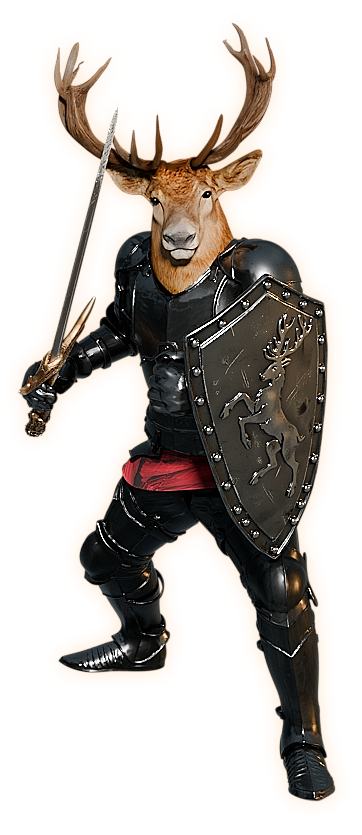
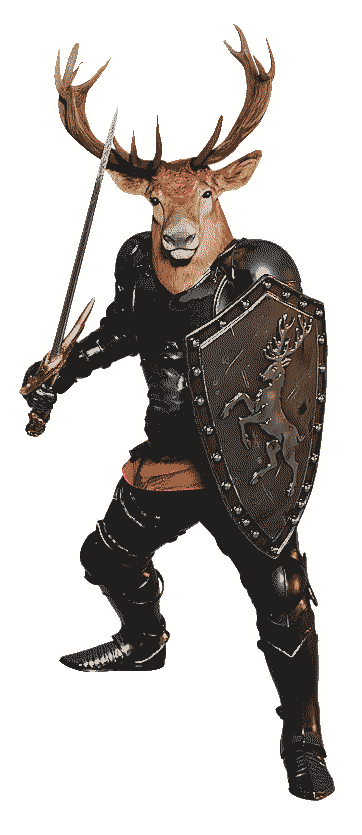
added gameplay screenshots, updated descriptions and expanded system sections

Changed region(s): [[0.0608, 0.0311, 0.942, 0.9653], [0.7901, 0.7784, 0.8204, 0.8096], [0.2735, 0.0623, 0.3039, 0.0934]]

diff --git a/index.html b/index.html
@@ -4,11 +4,11 @@
   <meta charset="UTF-8">
   <meta name="viewport" content="width=device-width, initial-scale=1.0">
   <title>The Lands Without | Isometric Dark Fantasy MMORPG</title>
-  <meta name="description" content="The Lands Without is an isometric dark fantasy MMORPG. Dangerous wilds, loot worth keeping, and three paths of power. In development.">
+  <meta name="description" content="The Lands Without is an isometric dark fantasy MMORPG. Castle sieges, quest chains, deep itemization, and three paths of power. In development.">
   <link rel="icon" type="image/svg+xml" href="assets/img/favicon.svg">
-  <link rel="stylesheet" href="css/style.css?v=3">
+  <link rel="stylesheet" href="css/style.css?v=4">
   <meta property="og:title" content="The Lands Without">
-  <meta property="og:description" content="An isometric dark fantasy MMORPG. Dangerous wilds, loot worth keeping, and three paths of power.">
+  <meta property="og:description" content="An isometric dark fantasy MMORPG. Castle sieges, quest chains, deep itemization, and three paths of power.">
   <meta property="og:type" content="website">
   <meta property="og:url" content="https://thelandswithout.com/">
 </head>
@@ -22,10 +22,11 @@
     <nav class="nav-links">
       <a href="#world">The World</a>
       <a href="#paths">Paths</a>
+      <a href="#systems">Systems</a>
       <a href="#war">War</a>
       <a href="#loot">Loot</a>
       <a href="#craft">Crafting</a>
-      <a href="#shots">Screenshots</a>
+      <a href="#quests">Quests</a>
       <a class="nav-cta" href="#join">Join</a>
     </nav>
   </header>
@@ -47,13 +48,24 @@
         <div class="rivet tl"></div><div class="rivet tr"></div><div class="rivet bl"></div><div class="rivet br"></div>
         <h2 class="section-title">The World</h2>
         <div class="filigree"><span class="filigree-diamond"></span></div>
-        <p>The Lands Without is a classic isometric MMORPG of deep forests, old ruins, and open war. Your journey begins in Oakvale, a frontier where monsters hunt in packs, bosses hold their ground, and the treasure is worth the danger.</p>
-        <p>Combat is honest about its stakes. A single even fight will test you. Two enemies at once is real trouble. Three is a death sentence. Survive, and you recover in seconds, ready to push deeper.</p>
+        <p>The Lands Without is a classic isometric MMORPG of deep forests, old ruins, and open war. Your journey begins in Oakvale, a frontier where weird monsters roam, bosses hold their ground, and the treasure is worth the danger.</p>
+        <p>Combat is fast-paced from the start. A single even fight will test you. Multiple enemies can be fatal. Survive, and you recover in seconds, ready to push deeper.</p>
+        <p>Time passes whether you are ready or not. The world runs on a full day and night cycle, and Oakvale by lamplight is a different place than Oakvale at noon. Some hunts only begin at dusk.</p>
         <ul class="feature-list">
           <li><span class="feature-key">Dungeons.</span> Instanced depths beneath the open world, each with its own dangers and its own rewards.</li>
           <li><span class="feature-key">World bosses.</span> Named horrors like the White Stag and the Wendigo rule the deep woods and drop the best gear in the region.</li>
           <li><span class="feature-key">Guilds.</span> Band together, trade, duel, and take your banner to war.</li>
         </ul>
+        <div class="media-row">
+          <figure class="media-shot reveal">
+            <img src="assets/img/screenshots/gameplay_bulwark_oakvale_village_day.jpg" alt="Isometric view of Oakvale Village in daylight, with villagers gathered around a central campfire where several dirt roads meet" loading="lazy">
+            <figcaption>Midday in Oakvale Village. Roads from every corner of the region meet at the central fire.</figcaption>
+          </figure>
+          <figure class="media-shot reveal">
+            <img src="assets/img/screenshots/gameplay_strider_oakvale_village_night.jpg" alt="Oakvale Village at night, lit only by the campfire, with the quest tracker showing The Strange Road beneath the minimap" loading="lazy">
+            <figcaption>The same square at 9:14 PM. The tracked quest sits under the minimap, and the dark comes all the way up to the buildings.</figcaption>
+          </figure>
+        </div>
       </div>
     </section>
 
@@ -83,14 +95,69 @@
       </div>
     </section>
 
+    <section class="section" id="systems">
+      <div class="panel reveal">
+        <div class="rivet tl"></div><div class="rivet tr"></div><div class="rivet bl"></div><div class="rivet br"></div>
+        <h2 class="section-title">The Action RPG Core</h2>
+        <div class="filigree"><span class="filigree-diamond"></span></div>
+        <p>Strip away the open world and the war, and The Lands Without is a proper action RPG underneath. Real stats, real rolls, and tooltips that tell you the truth.</p>
+        <div class="media-split">
+          <div>
+            <h3>A Character Sheet With Depth</h3>
+            <p>Every character is built on four attributes, Strength, Dexterity, Intelligence, and Vitality, feeding a full sheet of combat stats: health and mana with their own regeneration, minimum and maximum damage, attack speed, critical chance, critical damage, armor, and block.</p>
+            <p>Resistances are deep. Fire, cold, lightning, and void sit alongside physical mitigation split into slashing, crushing, and piercing. It is impossible to mitigate everything, so choose wisely!</p>
+            <p>Skills rank up along your chosen path, and their tooltips show exact numbers.</p>
+          </div>
+          <figure class="media-shot reveal">
+            <img src="assets/img/systems/player_stats.png" alt="The character sheet of a level 1 Strider, showing attributes, combat stats, defensive stats, and skill tooltips for Swift Strikes, Flurry, Relentless Tempo, and Blade Storm" loading="lazy">
+            <figcaption>A level 1 Strider's sheet. Attributes on top, combat and defensive stats below, exact skill numbers in the tooltips.</figcaption>
+          </figure>
+        </div>
+        <div class="media-split">
+          <figure class="media-shot reveal">
+            <img src="assets/img/systems/player_inventory.png" alt="The inventory grid with a tooltip for a common Longbow showing bow, piercing, 5 to 14 damage, and plus 7 attack range" loading="lazy">
+            <figcaption>The inventory grid, with a tooltip for a common Longbow: bow, piercing, 5 to 14 damage, plus 7 attack range.</figcaption>
+          </figure>
+          <div>
+            <h3>An Inventory Worth Sorting</h3>
+            <p>The bag is a 40 slot grid. Equipment lives in eight slots: head, chest, main hand, off hand, gloves, boots, and two rings. Materials stack to 999, and scrip, the coin of the land, takes no space at all.</p>
+            <p>Every tooltip leads with the item's rarity color, its damage type, and its rolls. By the time a drop hits your bag, the server has already decided everything about it: rarity, prefix, suffix, and any proc it carries. What you see is what it is.</p>
+          </div>
+        </div>
+      </div>
+    </section>
+
     <section class="section" id="war">
       <div class="panel reveal">
         <div class="rivet tl"></div><div class="rivet tr"></div><div class="rivet bl"></div><div class="rivet br"></div>
         <h2 class="section-title">War for the Land</h2>
         <div class="filigree"><span class="filigree-diamond"></span></div>
-        <p>Beyond the wilds, players fight players for territory. Castles anchor the map: hold one and you hold the land around it, along with everything that land produces.</p>
-        <p>Sieges are pitched battles at walls and gates. Defenders fight from the ramparts with the castle itself as their great equalizer. Attackers bring numbers, siege equipment, and sappers to break a way through. When the dust settles, someone new may be flying their banner over the keep.</p>
-        <p>Between sieges, contested zones burn with ongoing war, and contracts pay you to pick a side.</p>
+        <p>Beyond the wilds, armies fight for territory. Castles anchor the map: hold one and you hold the land around it, the vendors inside it, and the dungeon beneath it.</p>
+        <p>The first war is already burning. At Thornfell Outpost in northern Oakvale, the Order of the Sunken Flame lays siege to the Cervine Host, stag-horned soldiers holding the walls against the inquisitors sent to burn them out. Banner officers from both sides recruit before every battle. Sign with Legate or Captain Veyric, and fight for pay.</p>
+        <p>Every siege has a twelve minute muster while both armies stage at their rally banners, players choose their side, followed by a twenty minute assault. Attackers have to bring down the main gate, or try for one of the vulnerable sections of wall. Then push through and hold the capture ring for sixty uncontested seconds. Defenders win by keeping them off it until the clock runs out. When the battle resolves, if the attackers stand victorious, the castle changes hands.</p>
+        <ul class="feature-list">
+          <li><span class="feature-key">Requisition.</span> Fighting earns a siege currency you spend mid-battle. Attackers field battering rams, breaching charges that blow temporary holes in the wall, and waves of hired mercenaries. Defenders answer with boiling oil, gate repair crews, and sallies out the postern doors.</li>
+          <li><span class="feature-key">Armies, not skirmishes.</span> Footmen, skirmishers, champions, and veterans reinforce both sides every twenty seconds while wall archers hold the towers. Players are the ones who tip the balance.</li>
+          <li><span class="feature-key">Score that matters.</span> Kills, enemy players, gate damage, and time on the objective all earn score, and the winning side collects double pay. Victors also claim the shrine's blessing and the only keys to the Greymarch Lodge beneath the castle.</li>
+        </ul>
+        <div class="media-row">
+          <figure class="media-shot reveal">
+            <img src="assets/img/screenshots/gameplay_bulwark_thornfell_castle_siege_day_01.jpg" alt="A Bulwark approaching the walls of Thornfell Outpost, with the siege banner showing Order of the Sunken Flame versus Cervine Host and gate health" loading="lazy">
+            <figcaption>The road to Thornfell's gate. The outpost banner at lower right tracks the matchup, the countdown, and gate health.</figcaption>
+          </figure>
+          <figure class="media-shot reveal">
+            <img src="assets/img/screenshots/gameplay_bulwark_thornfell_castle_siege_day_02.jpg" alt="Both armies clashing at the main gate of Thornfell while a Wall Archer's health bar shows at the top of the screen" loading="lazy">
+            <figcaption>The assault. Both armies collide at the gate while wall archers fire from the towers.</figcaption>
+          </figure>
+          <figure class="media-shot reveal">
+            <img src="assets/img/screenshots/gameplay_bulwark_thornfell_castle_siege_day_03.jpg" alt="A Bulwark fighting a Wall Archer on the ramparts of Thornfell during the siege" loading="lazy">
+            <figcaption>Fighting along the ramparts. Clearing the archer posts opens the walls for the push inside.</figcaption>
+          </figure>
+          <figure class="media-shot reveal">
+            <img src="assets/img/screenshots/gameplay_bulwark_thornfell_castle_throne_day.jpg" alt="The throne room inside Thornfell's keep, lit by braziers within the castle walls" loading="lazy">
+            <figcaption>Thornfell's throne room. Take the castle, and its halls are yours until the next siege.</figcaption>
+          </figure>
+        </div>
       </div>
     </section>
 
@@ -99,8 +166,14 @@
         <div class="rivet tl"></div><div class="rivet tr"></div><div class="rivet bl"></div><div class="rivet br"></div>
         <h2 class="section-title">Loot Worth Keeping</h2>
         <div class="filigree"><span class="filigree-diamond"></span></div>
-        <p>Gear in The Lands Without is not a treadmill. Base items stay viable from the first hour to the last: a short sword found at level one, rolled with the right affixes or reforged at the smithy, can still compete at the end of the road.</p>
+        <p>Gear in The Lands Without is not a treadmill. Base items stay viable from the first hour to the last. A short sword found at level one, rolled with the right affixes or reforged at the smith, can still compete at the end of the road.</p>
         <p>Power comes from what rolls on top. Quality prefixes set the ceiling, themed suffixes decide the character of the item, and uniques carry fixed identities with mechanics all their own.</p>
+        <ul class="feature-list">
+          <li><span class="feature-key">Discrete rarity.</span> Drops run from common through uncommon, rare, epic, and legendary, with red-lettered uniques and one of a kind artifacts beyond them. Every monster rolls from its own loot table, so you learn what hunts what.</li>
+          <li><span class="feature-key">Quality prefixes.</span> Fine, Superior, Exceptional, and Masterwork raise a base item's stats by up to 40 percent. Masterwork shows up on roughly two drops in a hundred.</li>
+          <li><span class="feature-key">Themed suffixes.</span> More than twenty suffixes shape an item's character. "Of Might" rolls flat Strength, "of Flame Ward" rolls fire resistance, and proc suffixes like "of Embers" give your hits a chance to set the target burning.</li>
+          <li><span class="feature-key">Uniques with rules of their own.</span> The Cervine Sword speeds you up while you retreat from the nearest enemy. The Ice Bow saddles targets with frostbite. Dynamo stores your basic attacks as charge and unleashes them all through your next skill.</li>
+        </ul>
         <div class="loot-strip">
           <div class="loot-group rarity-common">
             <div class="loot-items">
@@ -149,21 +222,14 @@
         <p>What the world does not drop, you can make. Gather materials in the wild, smith them into gear whose stat ranges sharpen as your skill grows, and craft tradeable enchant scrolls that push good items into great ones.</p>
         <ul class="feature-list">
           <li><span class="feature-key">Four professions.</span> Smithing, enchanting, gathering, and hunting all level through use and unlock their own passive perks.</li>
-          <li><span class="feature-key">Hunting contracts.</span> Rotating contract boards pay out for the monsters you were going to fight anyway.</li>
-          <li><span class="feature-key">Drop shaping.</span> Hunting passives let you tilt the odds toward the loot your build actually wants.</li>
+          <li><span class="feature-key">Smithing.</span> Dozens of recipes spanning twenty levels of skill, and every craft rolls its stats fresh. Three iron ore and a length of rough timber make a short sword. A zweihander wants rare ore and beast fang. A good roll is worth the second trip to the forge.</li>
+          <li><span class="feature-key">Enchanting.</span> Nine scroll types, from Sharpening and Precision through Venom, Warding, Swiftness, and Nullward. Scrolls are consumable, tradeable, and stack real stats onto finished gear.</li>
+          <li><span class="feature-key">Sockets.</span> Crafted gear can roll one or two sockets for gems, and higher level recipes roll them more often, up to about one craft in three.</li>
+          <li><span class="feature-key">The right tool.</span> A pickaxe for ore, a sickle for herbs, a forester's axe for timber. Gathering feeds the forge, and the rest comes from the things you kill: hides, antler, spider silk, venom sacs.</li>
+          <li><span class="feature-key">Hunting contracts.</span> Rotating contract boards pay out for the monsters you were going to fight anyway, and hunting passives let you tilt drops toward the loot your build actually wants.</li>
+          <li><span class="feature-key">A living economy.</span> Gorn runs the forge in Oakvale and Klaus keeps the consumables, while the Thornfell Quartermaster sells only to whoever holds the castle. Scrip is the coin of the land. Hunter's Marks buy the rare stock.</li>
         </ul>
       </div>
-    </section>
-
-    <section class="section" id="shots">
-      <h2 class="section-title">Screenshots</h2>
-      <div class="filigree"><span class="filigree-diamond"></span></div>
-      <div class="shot-grid">
-        <div class="shot-frame reveal"><img src="assets/img/screenshots/player_stats.png" alt="Player stats panel showing attributes, combat stats, and skill tooltips" loading="lazy"></div>
-        <div class="shot-frame reveal"><img src="assets/img/screenshots/player_inventory.png" alt="Inventory panel with an item tooltip for a common longbow" loading="lazy"></div>
-        <div class="shot-frame reveal"><span>Coming soon</span></div>
-      </div>
-      <p class="section-note">The game is in active development. More screenshots from the current build will land here as regions are finished.</p>
     </section>
 
     <section class="section" id="join">

diff --git a/css/style.css b/css/style.css
@@ -547,39 +547,65 @@ main { max-width: 1060px; margin: 0 auto; padding: 0 1.5rem; }
 .rarity-unique    { --rarity: var(--rarity-unique); }
 
 /* ==========================================================================
-   Screenshot placeholders
+   Embedded media screenshots
    ========================================================================== */
 
-.shot-grid {
+.media-row {
   display: grid;
-  grid-template-columns: repeat(3, 1fr);
-  gap: 1.2rem;
+  grid-template-columns: repeat(2, 1fr);
+  gap: 1.3rem;
   margin-top: 2rem;
 }
 
-.shot-frame {
-  aspect-ratio: 16 / 9;
-  display: flex;
-  align-items: center;
-  justify-content: center;
-  background:
-    var(--noise),
-    linear-gradient(var(--slot-empty), var(--panel-bottom));
+.media-shot { margin: 0; }
+
+.media-shot img {
+  width: 100%;
+  background: var(--slot-empty);
   border: 4px solid var(--frame-outer);
   border-radius: 4px;
   box-shadow:
     0 0 0 1px rgba(199, 204, 217, 0.35),
-    inset 0 0 0 1px var(--trim-dark),
     0 4px 12px rgba(0, 0, 0, 0.5);
 }
 
-.shot-frame span {
-  font-family: var(--font-title);
-  font-size: 0.8rem;
-  color: var(--trim-dark);
+.media-shot figcaption {
+  font-size: 0.88rem;
+  font-style: italic;
+  color: var(--trim);
+  text-align: center;
+  margin-top: 0.6rem;
+  padding: 0 0.4rem;
 }
 
-.shot-frame img { width: 100%; height: 100%; object-fit: contain; }
+/* Systems section: prose beside an in-game UI capture */
+.media-split {
+  display: grid;
+  grid-template-columns: minmax(0, 1.15fr) minmax(0, 1fr);
+  gap: 2rem;
+  align-items: center;
+  margin-top: 2.2rem;
+}
+
+.media-split:has(.media-shot:first-child) {
+  grid-template-columns: minmax(0, 1fr) minmax(0, 1.15fr);
+}
+
+.media-split h3 {
+  font-family: var(--font-title);
+  font-weight: 400;
+  font-size: 1.05rem;
+  color: var(--text-header);
+  text-shadow: var(--title-outline);
+  margin-bottom: 0.7rem;
+}
+
+.media-split .media-shot img {
+  width: auto;
+  max-width: 100%;
+  max-height: 460px;
+  margin: 0 auto;
+}
 
 /* ==========================================================================
    Footer
@@ -618,7 +644,15 @@ body.js .reveal.visible {
    ========================================================================== */
 
 @media (max-width: 860px) {
-  .card-row, .shot-grid { grid-template-columns: 1fr; }
+  .card-row, .media-row { grid-template-columns: 1fr; }
+
+  .media-split,
+  .media-split:has(.media-shot:first-child) {
+    grid-template-columns: 1fr;
+    gap: 1.4rem;
+  }
+
+  .media-split .media-shot { order: 1; }
   .panel { padding: 1.8rem 1.4rem 2rem; }
 }
 
